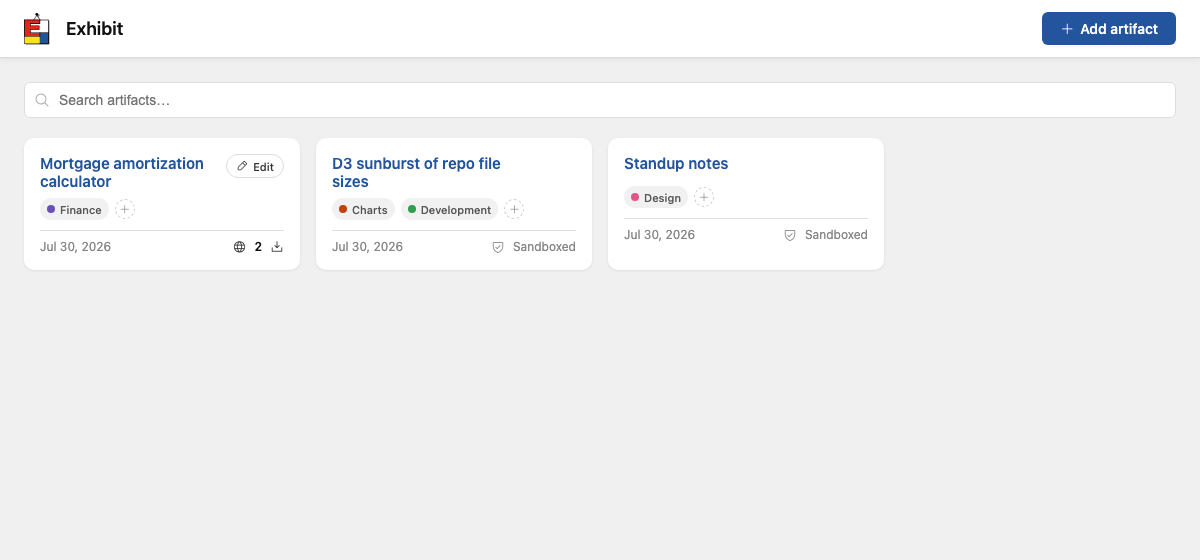
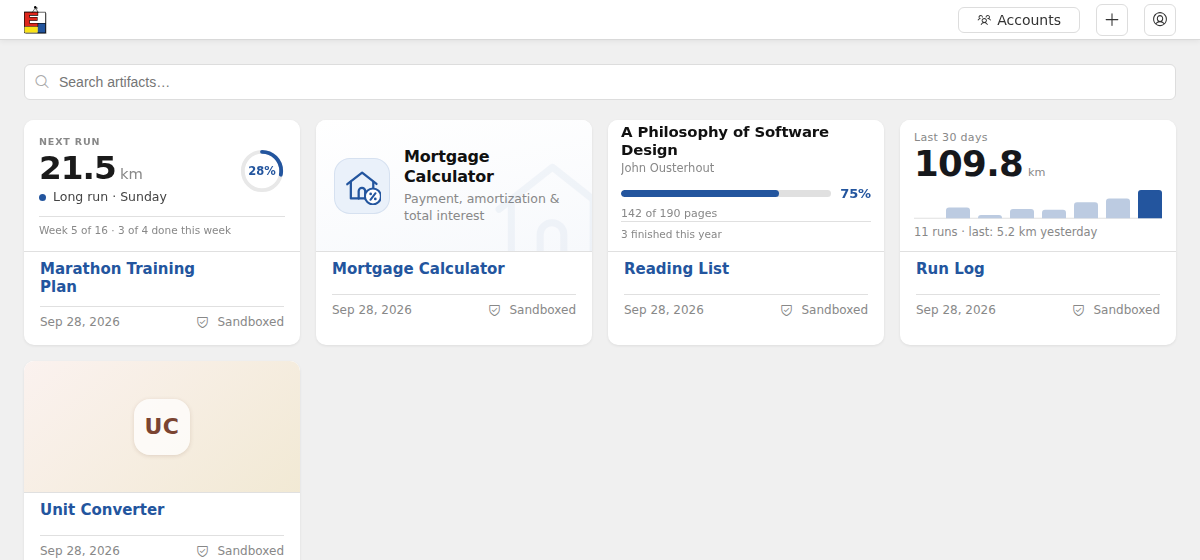
nw-h1dr: drop the Exhibit wordmark from the gallery header
The visible <h1>Exhibit</h1> beside the logo repeated what the logo and
tab title already say, and was the only page whose heading named the
product rather than the page. The logo stays; the h1 remains for
screen-reader heading navigation, now reading "Library" and hidden
visually. Screenshot regenerated.

Claude-Session: https://claude.ai/code/session_01T3Fe8vTZs5BbKWKp8CV6x8

diff --git a/web/gallery/index.css b/web/gallery/index.css
@@ -5,7 +5,9 @@
 *{box-sizing:border-box;margin:0;padding:0}
 body{font-family:system-ui,sans-serif;background:#f0f0f0;color:#111;min-height:100vh}
 header{position:sticky;top:0;z-index:20;background:#fff;border-bottom:1px solid #d9d9d9;box-shadow:0 1px 6px rgba(0,0,0,.07);padding:12px 24px;display:flex;align-items:center;gap:16px}
-header h1{font-size:18px;font-weight:600}
+/* The heading stays for screen-reader heading navigation but is not drawn:
+ * the logo beside it already says which app this is (nw-h1dr). */
+header h1{position:absolute;width:1px;height:1px;padding:0;margin:-1px;overflow:hidden;clip:rect(0 0 0 0);white-space:nowrap;border:0}
 header .logo{height:28px;width:auto;display:block;flex:0 0 auto}
 header a{color:var(--brand-blue);text-decoration:none;font-size:14px;display:inline-flex;align-items:center;gap:5px}
 main{padding:24px;max-width:1200px;margin:0 auto}

diff --git a/.tickets/nw-h1dr.md b/.tickets/nw-h1dr.md
@@ -1,6 +1,6 @@
 ---
 id: nw-h1dr
-status: in_progress
+status: closed
 deps: []
 links: []
 created: 2026-09-28T00:00:00Z
